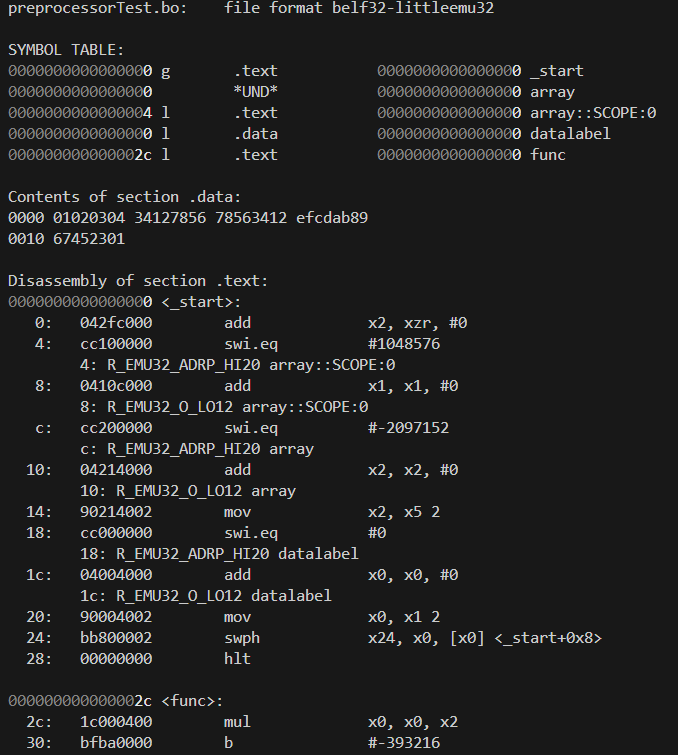
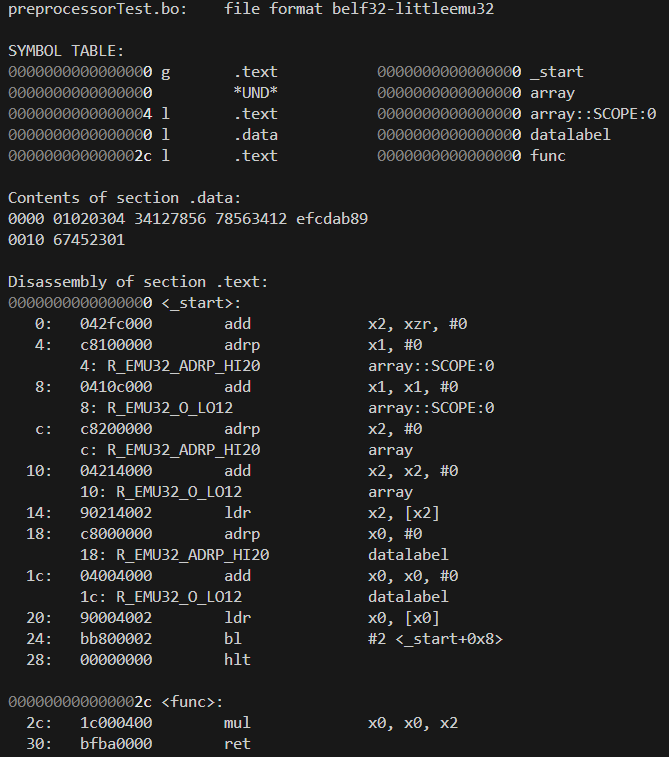
fixed disassembler printing wrong instructions

diff --git a/core/assembler/src/ObjectFile.cpp b/core/assembler/src/ObjectFile.cpp
@@ -485,30 +485,32 @@ void ObjectFile::print() {
 		/* Check if there is a relocation record here */
 		if (rel_text_map.find(i*4) != rel_text_map.end()) {
 			printf(relocation_spacing.c_str(), "");
-			printf(" \t%hx: ", (dword) i*4);
 
 			RelocationEntry entry = rel_text_map[i*4];
+			std::string print_str = "";
 			switch (entry.type) {
 				case RelocationEntry::Type::R_EMU32_O_LO12:
-					printf("R_EMU32_O_LO12 ");
+					print_str = "R_EMU32_O_LO12";
 					break;
 				case RelocationEntry::Type::R_EMU32_ADRP_HI20:
-					printf("R_EMU32_ADRP_HI20 ");
+					print_str = "R_EMU32_ADRP_HI20";
 					break;
 				case RelocationEntry::Type::R_EMU32_MOV_LO19:
-					printf("R_EMU32_MOV_LO19 ");
+					print_str = "R_EMU32_MOV_LO19";
 					break;
 				case RelocationEntry::Type::R_EMU32_MOV_HI13:
-					printf("R_EMU32_MOV_HI13 ");
+					print_str = "R_EMU32_MOV_HI13";
 					break;
 				case RelocationEntry::Type::R_EMU32_B_OFFSET22:
-					printf("R_EMU32_B_OFFSET22 ");
+					print_str = "R_EMU32_B_OFFSET22";
 					break;
 				case RelocationEntry::Type::UNDEFINED:
-					printf("<ERROR> ");
+					print_str = "<ERROR>";
 					break;
 			}
 
+			int print_str_width = 29 - std::__bit_width(i / 4);
+			printf((" \t%hx: %-" + std::to_string(print_str_width) + "s").c_str(), (dword) i*4, print_str.c_str());
 			printf("%s", strings[symbol_table[entry.symbol].symbol_name].c_str());
 		}
 	}

diff --git a/core/emulator32bit/src/Disassembler.cpp b/core/emulator32bit/src/Disassembler.cpp
@@ -491,9 +491,9 @@ DisassemblerFunction _disassembler_instructions[64] = {
 	disassemble_vcmp_f32,
 	disassemble_vsel_f32,
 	disassemble_vcint_u32_f32,								/* slight discrepency with the emulator. check later */
-	disassemble_vcint_s32_f32,								/* slight discrepency with the emulator. check later */
+	// disassemble_vcint_s32_f32,								/* slight discrepency with the emulator. check later */
 	disassemble_vcflo_u32_f32,								/* slight discrepency with the emulator. check later */
-	disassemble_vcflo_s32_f32,								/* slight discrepency with the emulator. check later */
+	// disassemble_vcflo_s32_f32,								/* slight discrepency with the emulator. check later */
 	disassemble_vmov_f32,
 	disassemble_and,
 	disassemble_orr,
@@ -510,13 +510,13 @@ DisassemblerFunction _disassembler_instructions[64] = {
 	disassemble_mov,
 	disassemble_mvn,
 	disassemble_ldr,
-	disassemble_str,
-	disassemble_swp,
 	disassemble_ldrb,
-	disassemble_strb,
-	disassemble_swpb,
 	disassemble_ldrh,
+	disassemble_str,
+	disassemble_strb,
 	disassemble_strh,
+	disassemble_swp,
+	disassemble_swpb,
 	disassemble_swph,
 	disassemble_b,
 	disassemble_bl,

diff --git a/core/emulator32bit/src/Emulator32bit.cpp b/core/emulator32bit/src/Emulator32bit.cpp
@@ -99,7 +99,7 @@ Emulator32bit::Emulator32bit() : Emulator32bit(RAM_MEM_SIZE, RAM_MEM_START, ROM_
 
 void Emulator32bit::print() {
 	printf("32 bit emulator\nRegisters:\n");
-	printf(" pc: %s\n sp: %s\n", to_color_hex_str(_pc).c_str(), to_color_hex_str(_x[SP]).c_str());
+	printf(" pc: %s\n sp: %s\nxzr: %s\n", to_color_hex_str(_pc).c_str(), to_color_hex_str(_x[SP]).c_str(), to_color_hex_str((word)0).c_str());
 	for (int i = 0; i < SP; i++) {
 		printf("x%.2d: %s\n", i, to_color_hex_str(_x[i]).c_str());
 	}

diff --git a/core/emulator32bit/include/emulator32bit/Emulator32bit.h b/core/emulator32bit/include/emulator32bit/Emulator32bit.h
@@ -226,7 +226,7 @@ class Emulator32bit {
 		_INSTR(blx, 0b110000)
 		_INSTR(swi, 0b110001)
 
-		_INSTR(adrp, 0b110011)
+		_INSTR(adrp, 0b110010)
 
 		// _INSTR(nop_, 0b110100)
 		// _INSTR(nop_, 0b110101)

diff --git a/core/app/Version.h b/core/app/Version.h
@@ -1,2 +1,2 @@
 #pragma once
-#define ALIENEMULATOR_VERSION "v0.7.0-2-g25c780f-dirty"
+#define ALIENEMULATOR_VERSION "v0.7.0-3-g5c928ce-dirty"
